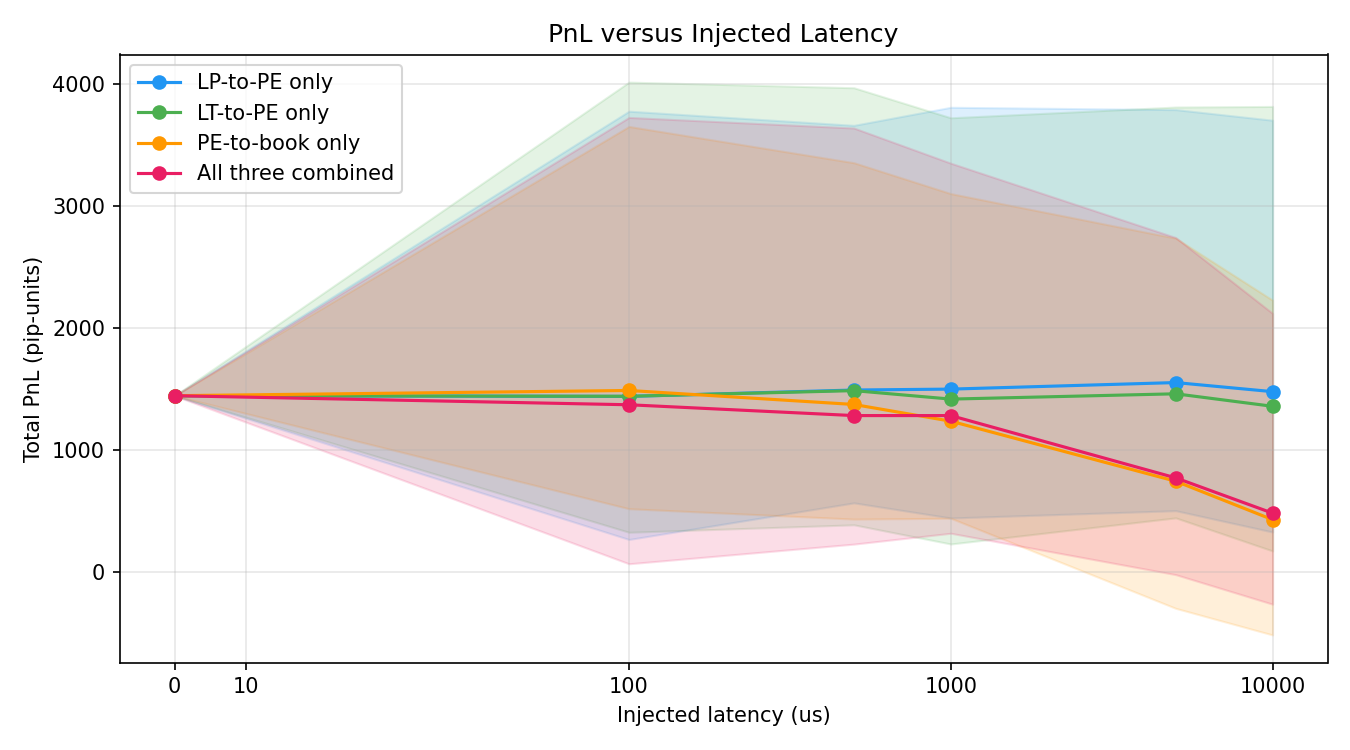
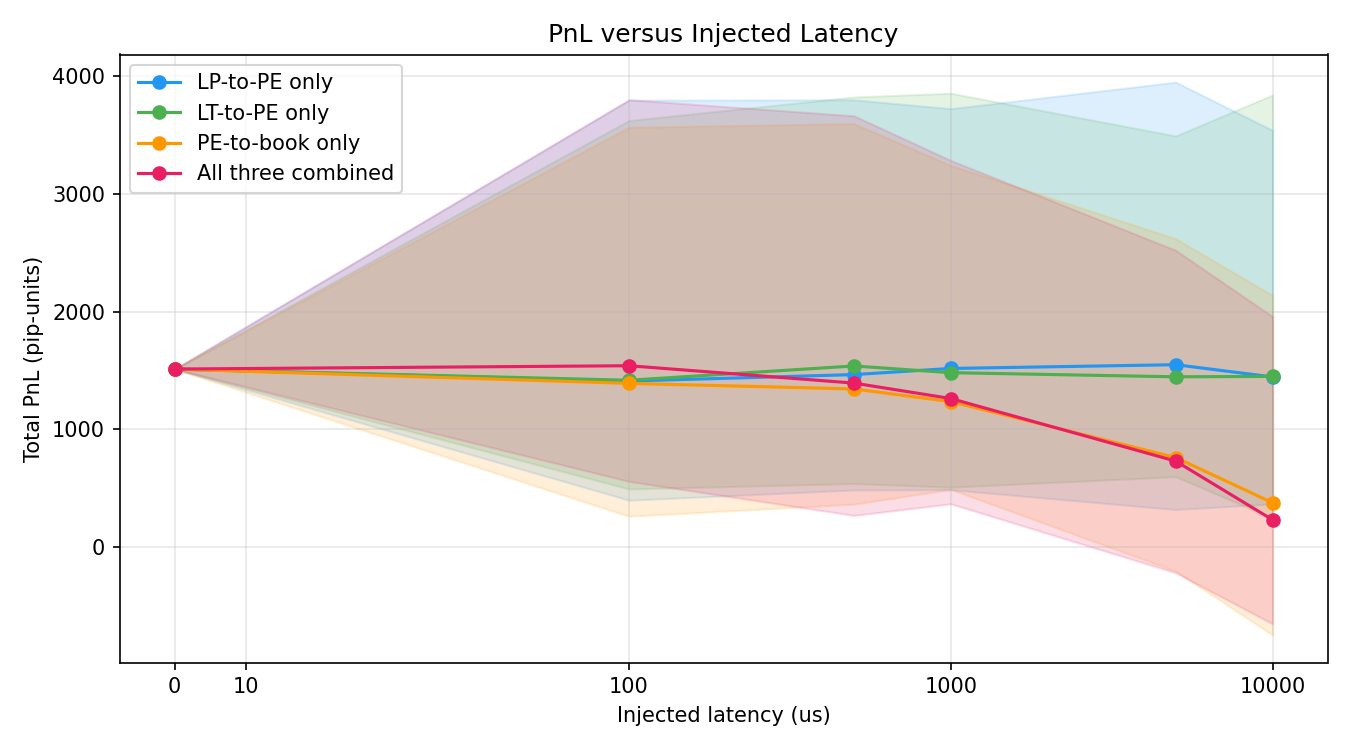
Fixed hedge delay description in ARCHITECTURE, LATENCY_STUDY + sweep script cleanup

diff --git a/LATENCY_STUDY.md b/LATENCY_STUDY.md
@@ -28,31 +28,31 @@ Hedges did not trigger in any run at default parameters (hedge_threshold=60, bet
 
 ![PnL versus Injected Latency](docs/latency_pnl.png)
 
-PE-to-book is the only link with a clear PnL signal. PnL sits at 1447 pip-units at baseline, holds around 1489 at 100us, then drops monotonically to 1238 at 1ms and 431 at 10ms. Combined tracks it closely, reaching 485 at 10ms. LP-to-PE shows no degradation - PnL fluctuates between 1441 and 1554 with no directional trend. LT-to-PE drifts slightly lower at high latency (1360 at 10ms vs 1447 baseline) but the bands are wide and the signal is weak.
+PE-to-book is the only link with a clear PnL signal. PnL sits at 1511 pip-units at baseline, drops to 1390 at 100us, 1342 at 500us, 1235 at 1ms, 759 at 5ms, and 376 at 10ms. The drop is monotonic. Combined tracks PE-to-book closely up to 1ms then falls further, reaching 231 at 10ms. LP-to-PE shows no degradation - mean PnL ranges 1409 to 1548 across the tested latencies with no directional trend. LT-to-PE is also flat - means range from 1416 to 1537, all within seed variance of baseline.
 
 ![Fill Rate versus Injected Latency](docs/latency_fill_rate.png)
 
-Fill rate is flat across all runs and all links. The full range is 31.3 to 31.9 fills/sec. PE-to-book and combined show a marginal drop at 10ms (31.33 and 31.36 respectively) but it is within seed variance. No link moves fill rate meaningfully.
+Fill rate is flat across all runs and all links. The full range is 31.2 to 31.9 fills/sec. PE-to-book and combined show a marginal drop at 10ms (31.31 and 31.17 respectively) but it is within seed variance. No link moves fill rate meaningfully.
 
 ![Exposure versus Injected Latency](docs/latency_exposure.png)
 
-PE-to-book drives exposure up clearly above 1ms. Position std dev sits at 6.00 at baseline, rises gradually to 6.14 at 500us, then more sharply to 6.21 at 1ms, 6.67 at 5ms, and 7.13 at 10ms. Combined follows the same curve. LP-to-PE and LT-to-PE stay at or below baseline throughout, ranging 5.92 to 6.00, with no upward trend.
+PE-to-book drives exposure up clearly above 1ms. Position std dev sits at 6.00 at baseline, rises gradually to 6.04 at 500us and 6.11 at 1ms, then more sharply to 6.65 at 5ms and 7.09 at 10ms. Combined follows the same curve. LP-to-PE and LT-to-PE stay close to baseline throughout, ranging 5.80 to 6.03, with no upward trend.
 
 ## Discussion
 
-**Prediction 1 (LP-to-PE degrades PnL): wrong.** PnL rose. The reason is that the LT in this simulation has no adverse selection logic. A real liquidity taker would compare PE's stale quote against current LP quotes and hit PE only when the mispricing is in its favour. Here, the LT fires market orders without inspecting staleness. So the mispricing never gets exploited. Without adverse selection in the LT, mispriced PE quotes do not get systematically picked off. Stale LP quotes shift PE's mid reference around, but the resulting quote misalignment hits direction-blind LT flow, so PnL effects are noise-dominated rather than systematically negative. This is a simulation gap, not a real-world result, and is noted in the limitations.
+**Prediction 1 (LP-to-PE degrades PnL): wrong.** PnL stayed flat around baseline rather than degrading. The reason is that the LT in this simulation has no adverse selection logic. A real liquidity taker would compare PE's stale quote against current LP quotes and hit PE only when the mispricing is in its favour. Here, the LT fires market orders without inspecting staleness, so the mispricing never gets exploited. Stale LP quotes shift PE's mid reference around, but the resulting quote misalignment hits direction-blind LT flow, so PnL effects are noise-dominated rather than systematically negative. This is a simulation gap, not a real-world result, and is noted in the limitations.
 
 **Prediction 2 (LT-to-PE degrades PnL and raises exposure): wrong.**
 LT-to-PE shows a weak downward drift at high latency but the seed variance is large enough that the signal is not reliable, and exposure slightly decreased at high latency. When fill notifications arrive late, PE's beta skew reacts to inventory changes after a delay, which means PE quotes closer to mid for longer before the skew kicks in. That counterintuitively reduces position variance compared to aggressive immediate skewing. This is a second-order effect of the specific parameter values, not a general result.
 
-**Prediction 3 (PE-to-book degrades PnL): correct.** 
-The most robust result in the study. Stale PE quotes stay visible after PE would have pulled or repriced them. The LT hits them. PnL falls from 1447 to 431 pip-units across the tested range, monotonically. This is the stale-quote problem in market making and it shows up clearly.
+**Prediction 3 (PE-to-book degrades PnL): correct.**
+The most robust result in the study. Stale PE quotes stay visible after PE would have pulled or repriced them. The LT hits them. PnL falls from 1511 to 376 pip-units across the tested range, monotonically. This is the stale-quote problem in market making and it shows up clearly.
 
-**Prediction 4 (fill rate direction ambiguous): correct.** 
-Fill rate is flat; and is insensitive because stale quotes attract slightly more fills while PE's wider effective spread from delayed repricing slightly reduces LT hits. These effects cancel at these latency scales.
+**Prediction 4 (fill rate direction ambiguous): correct.**
+Fill rate is flat. Stale quotes attract slightly more fills while PE's wider effective spread from delayed repricing slightly reduces LT hits. These effects cancel at these latency scales.
 
 **Prediction 5 (exposure rises on every link): wrong for two of three links.**
-PE-to-book raised exposure as predicted, clearly and monotonically above 1ms. Position std dev sits at 6.00 at baseline, rises gradually to 6.14 at 500us, then more sharply to 6.21 at 1ms, 6.67 at 5ms, and 7.13 at 10ms. Hedges did not trigger in any of the 105 runs at default parameters - beta=0.4 keeps inventory self-correcting well below the 60-unit threshold through quote skew alone. The exposure rise under PE-to-book latency is therefore driven by quote-skew breakdown: stale PE quotes remain best for longer, attract one-sided LT flow before the skew can adjust, and accumulate position. LP-to-PE and LT-to-PE latency don't have this effect because they don't change how long PE's quote sits visible in the book.
+PE-to-book raised exposure as predicted, clearly and monotonically above 1ms. Position std dev sits at 6.00 at baseline, rises gradually to 6.04 at 500us and 6.11 at 1ms, then more sharply to 6.65 at 5ms and 7.09 at 10ms. Hedges did not trigger in any of the 105 runs at default parameters - beta=0.4 keeps inventory self-correcting well below the 60-unit threshold through quote skew alone. The exposure rise under PE-to-book latency is therefore driven by quote-skew breakdown: stale PE quotes remain best for longer, attract one-sided LT flow before the skew can adjust, and accumulate position. LP-to-PE and LT-to-PE latency don't have this effect because they don't change how long PE's quote sits visible in the book.
 
 The main result: PE-to-book latency is the most damaging link in this simulation. Quote update latency to the venue is the primary latency risk in any market-making system, and this study reproduces that.
 
@@ -70,4 +70,4 @@ The main result: PE-to-book latency is the most damaging link in this simulation
 
 The current model applies one constant latency per link, shared across all LPs. A more realistic model would assign heterogeneous per-LP latency profiles (LP1 at 50us, LP2 at 2ms) to study how PE behaves when some feeds are fresh and others are stale. This was scoped as a third-tier feature and not built for this submission.
 
-A second extension is to model PE-to-LP wire latency for outbound hedge orders as a fourth injection point. The current engine routes hedges through the same PE-to-book delay buffer as quote updates, which collapses two distinct production paths into one parameter. Splitting them would let the study separate quote-staleness cost from hedge-delivery cost.
+A second extension is to model PE-to-LP wire latency for outbound hedge orders as a fourth injection point. The current engine applies PE-to-book delay to quote updates only; hedge inventory adjustments are immediate, which collapses two distinct production paths into one parameter. Splitting them would let the study separate quote-staleness cost from hedge-delivery cost.

diff --git a/ARCHITECTURE.md b/ARCHITECTURE.md
@@ -14,7 +14,7 @@ Single C++ process, five threads. Three producer threads push events into three 
                      │ ◄─ LtOrder (SPSC)  ─────────  LT Thread  (Poisson arrivals)
                      │
                      ▼
-┌────────────────────-─────────────────────┐
+┌──────────────────────────────────────────┐
 │            PE Consumer Thread            │
 │                                          │
 │       Consolidated book (13 slots)       │
@@ -26,12 +26,12 @@ Single C++ process, five threads. Three producer threads push events into three 
 └────────────────────┬─────────────────────┘
                      │ seqlock read (5 Hz)
                      ▼
-┌─────────────────────────────────────-────┐
+┌──────────────────────────────────────────┐
 │         Metrics Publisher Thread         │
 └────────────────────┬─────────────────────┘
                      │ TCP NDJSON · localhost:8765
                      ▼
-┌─────────────────────--───────────────────┐
+┌──────────────────────────────────────────┐
 │           Streamlit Dashboard            │
 │              localhost:8501              │
 └──────────────────────────────────────────┘
@@ -83,7 +83,7 @@ Each item is stamped with `release_time = now + delay_ns` on entry and released 
 
 The signal-to-PE link has no injection. The signal generator is in-process.
 
-PE-to-book delay covers both PE quote updates and outbound hedge orders. In production they share the same outbound wire to the venue, so one parameter models both correctly.
+PE-to-book delay covers PE quote updates only. Hedge inventory adjustments are instantaneous; the post-hedge requote goes through the delay buffer. In production, hedge orders would share the same outbound wire and warrant a separate injection point, noted in LATENCY_STUDY.md as future work.
 
 ## Matching semantics
 
@@ -109,7 +109,7 @@ TCP NDJSON over shared memory or a Unix socket because it is debuggable with `nc
 
 ## Docker
 
-Both services use multi-stage builds pinned to `linux/amd64`. The engine image builds on `gcc:13-bookworm` and runs on `ubuntu:24.04`. `debian:bookworm-slim` was the first choice for the runtime stage but ships with `libstdc++6` from gcc 12, which is missing `GLIBCXX_3.4.32` required by a gcc 13 binary. `ubuntu:24.04` ships gcc 13's libstdc++ and resolves the mismatch cleanly without copying .so files or static linking. The dashboard uses `python:3.12-slim`. Pinning ensures the images run on x86_64 reviewer machines regardless of build host architecture.
+The engine uses a multi-stage build pinned to `linux/amd64`. The engine image builds on `gcc:13-bookworm` and runs on `ubuntu:24.04`. `debian:bookworm-slim` was the first choice for the runtime stage but ships with `libstdc++6` from gcc 12, which is missing `GLIBCXX_3.4.32` required by a gcc 13 binary. `ubuntu:24.04` ships gcc 13's libstdc++ and resolves the mismatch cleanly without copying .so files or static linking. The dashboard is a single-stage Python image, also pinned to `linux/amd64` and uses `python:3.12-slim`. Pinning ensures the images run on x86_64 reviewer machines regardless of build host architecture.
 
 The engine sources compile into `engine_lib`, a static library linked by three targets: the `engine` binary, `bench_throughput`, and `bench_latency`. Without this, bench sources would need to re-list every engine source file or the bench targets would get stale builds when engine sources change. The static library keeps CMakeLists clean and ensures the bench binaries always use the same compiled objects as the engine.
 

diff --git a/README.md b/README.md
@@ -1,6 +1,6 @@
 # pricing-engine
 
-A market-making pricing engine that ingests high-frequency LP quotes and a directional signal, competes in a consolidated book to capture flow, skews quotes to manage inventory, and publishes a live dashboard. Built as a take-home for a Quant Developer role.
+A market-making pricing engine that ingests high-frequency LP quotes and a directional signal, competes in a consolidated book to capture flow, skews quotes to manage inventory, and publishes a live dashboard.
 
 ## Quickstart
 
@@ -72,7 +72,7 @@ A handful of choices that affect what the system can and cannot tell you. Each i
 
 ## Latency study
 
-PE-to-book is the dominant latency link. PnL falls from ~1450 to ~430 pip-units as PE-to-book delay increases from 0 to 10ms. Stale quote updates stay live in the book longer, LTs hit them adversely, and spread capture collapses. LP-to-PE latency shows a counterintuitive PnL rise, which is a simulation artifact: the LT has no adverse selection logic, so stale LP quotes do not hurt PE. LT-to-PE shows no clear trend. Full methodology, plots, and discussion in [LATENCY_STUDY.md](LATENCY_STUDY.md).
+PE-to-book is the dominant latency link. PnL falls from ~1510 to ~380 pip-units as PE-to-book delay increases from 0 to 10ms. Stale quote updates stay live in the book longer, LTs hit them adversely, and spread capture collapses. LP-to-PE latency shows no degradation, which is a simulation artifact: the LT has no adverse selection logic, so stale LP quotes do not hurt PE. LT-to-PE shows no clear trend. Full methodology, plots, and discussion in [LATENCY_STUDY.md](LATENCY_STUDY.md).
 
 ## Configuration
 

diff --git a/DESIGN.md b/DESIGN.md
@@ -34,7 +34,7 @@ When `|position| >= hedge_threshold`, PE crosses the spread to reduce exposure. 
 
 After every hedge, PE requotes immediately using the updated (post-hedge) position. Without this, the quote would reflect stale inventory for the next several events.
 
-Hedge orders do not go through the LT queue. PE issues them directly to the book, simulating an outbound hedge to a specific LP. This is the same shape as a real PE sending a risk transfer to a named LP.
+Hedge orders do not go through any queue. PE crosses the spread at the best LP price and updates inventory directly. The book is not modified by the hedge; the simulation treats LP liquidity as infinite at the displayed quote. The PE-to-book delay applies to PE quote updates only, not to hedge inventory updates. This is listed as a deliberate abstraction in the "What is intentionally simple" section.
 
 The hedge is a last-resort mechanism. With `beta=0.4`, a position of 60 units shifts quote_mid by 24 ticks. That is a 24-tick differential between best bid and best ask for the opposing side, which is large enough to attract LT flow and flatten inventory before the threshold is hit in most cases. The hedge fires when that fails, typically during a run of one-sided LT flow.
 
